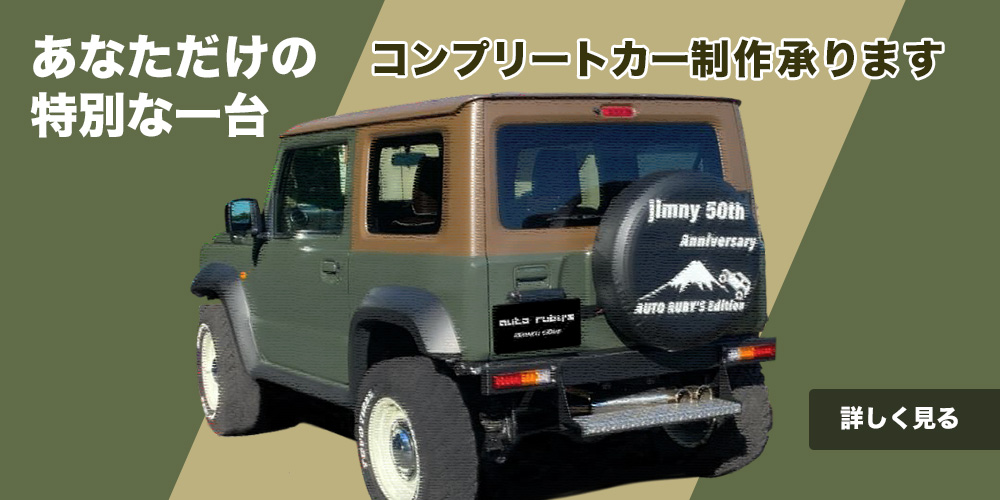
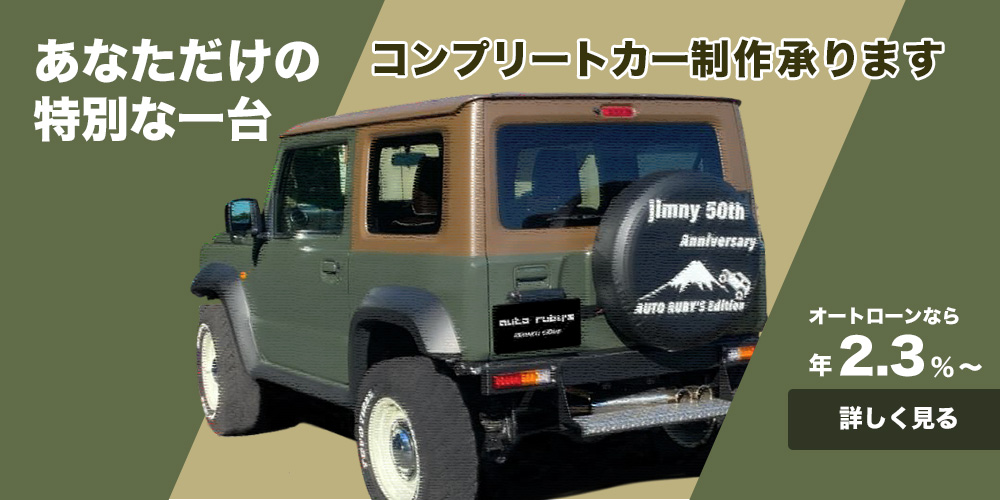
update: 金利の表記を追加

diff --git a/app/pages/completecar/index.vue b/app/pages/completecar/index.vue
@@ -37,7 +37,7 @@ div
                 .reason-content
                   h3.lead.lead-reason パーツ代、工賃も全てコミコミ。<br>だから、経済的
                   p ご自身で愛車をカスタマイズする場合、パーツを一つずつ揃えることになり、かえって費用が高額になってしまうケースも...。
-                  p コンプリートカーであれば、無駄なパーツを買わずに済みます。また、ローンを組む場合はパーツ代、工賃代も含んで組むことができるため、パーツごとに購入する場合よりもお得になります。
+                  p コンプリートカーであれば、無駄なパーツを買わずに済みます。また、<strong>オートローンによるお支払い（金利年2.3％～）</strong>も可能です。
             .reason-block-wrap
               .reason-block
                 .reason-photo: img(src="~/assets/images/completecar/complete_photo3.jpg" alt="")
